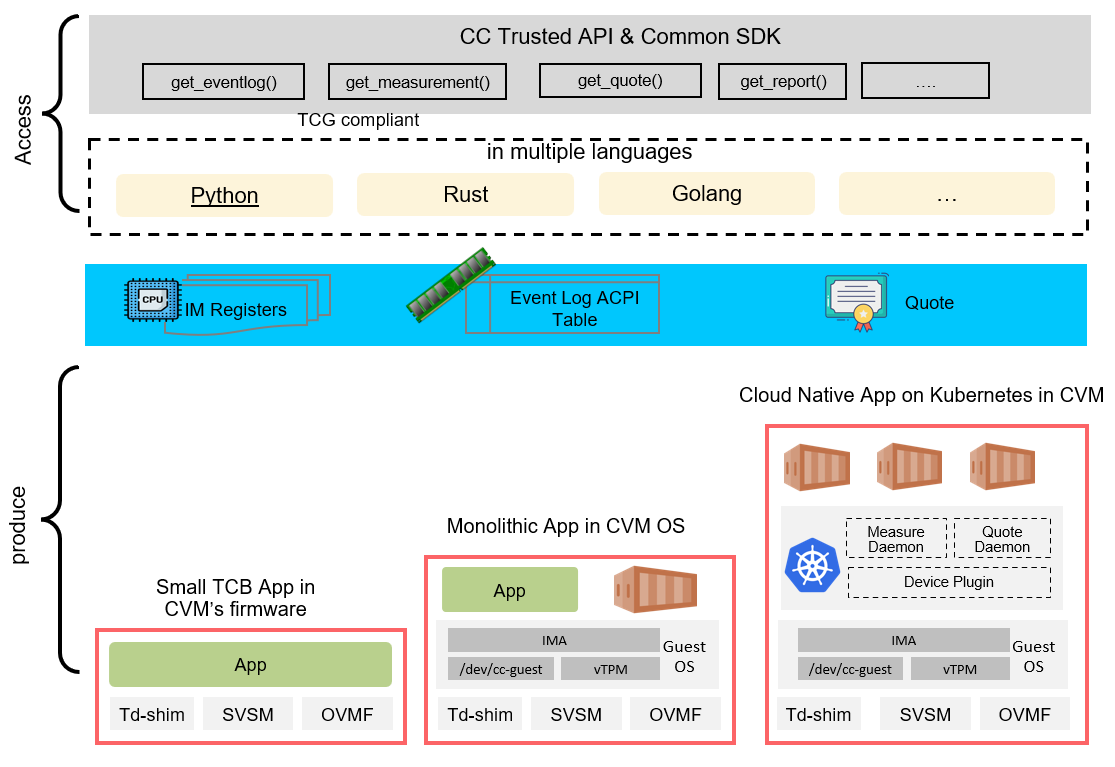
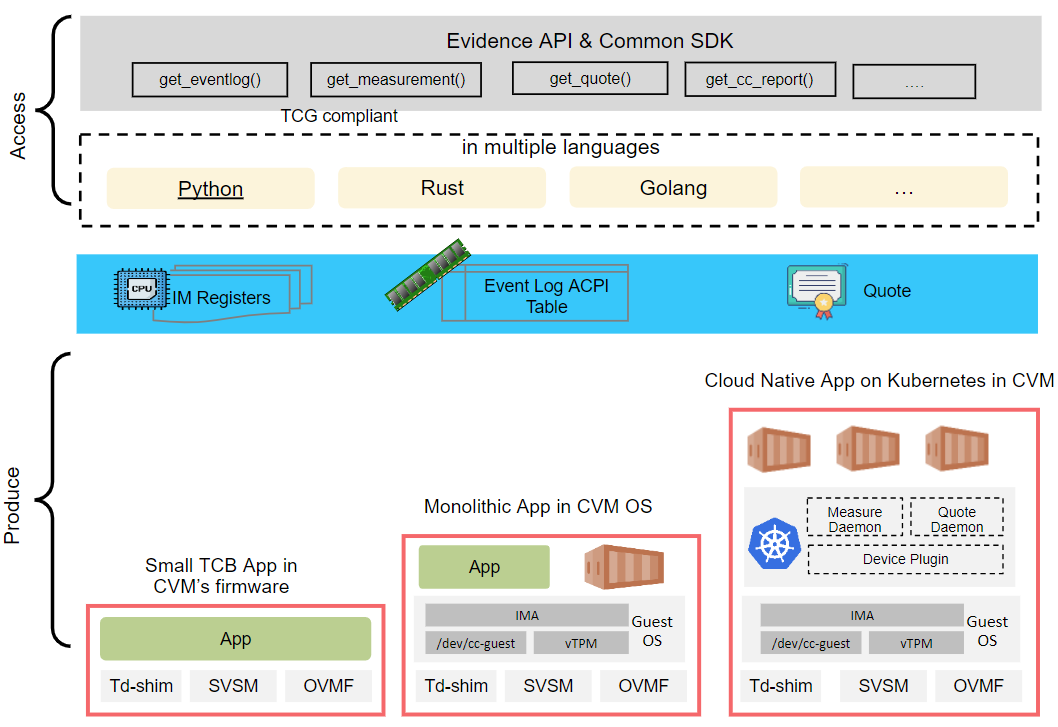
Update diagrams and README to reflect new component name (#142)

Changed region(s): [[0.0, 0.0, 0.9981, 0.9986], [0.9669, 0.0303, 0.9981, 0.1513]]

diff --git a/README.md b/README.md
@@ -7,44 +7,14 @@
 
 Evidence API helps the diverse applications to access and process the trust states
 which was represented by integrity measurement, event record, report/quote in the confidential
-computing environment.
+computing environment. Find more details in the [wiki](https://github.com/cc-api/evidence-api/wiki).
 
 ![](docs/evidence-api-overview.png)
 
-## 1. TCB Measurement
 
-The diverse application in confidential computing could be firmware or monolithic application
-in Confidential VM(CVM), micro service or macro service on Kubernetes. Although
-different type application might get the trust states measured in different Trusted
-Computing Base (TCB), the definition and structure of integrity measurement register and
-event log follows the below specifications.
+## APIs
 
-![](docs/evidence-api-usage.png)
-| TCB | Measured By | Specification |
-| --- | -------- | ------------- |
-| Initial TEE | Trusted Security Manager (TSM), such as Intel TDX module, SEV secure processor | Vendor Specification such as [Intel TDX Module 1.5 ABI Specification](https://cdrdv2.intel.com/v1/dl/getContent/733579) |
-| Firmware | EFI_CC_MEASUREMENT_PROTOCOL </br> CCEL ACPI Table </br> EFI_TCG2_PROTOCOL </br> TCG ACPI Table | [UEFI Specification 2.10](https://uefi.org/specs/UEFI/2.10/38_Confidential_Computing.html#virtual-platform-cc-event-log) </br> [ACPI Specification 6.5](https://uefi.org/specs/ACPI/6.5/05_ACPI_Software_Programming_Model.html#cc-event-log-acpi-table) </br> [TCG EFI Protocol Specification](https://trustedcomputinggroup.org/resource/tcg-efi-protocol-specification/) </br> [TCG ACPI Specification](https://trustedcomputinggroup.org/resource/tcg-acpi-specification/) |
-| Boot Loader | EFI_CC_MEASUREMENT_PROTOCOL </br> EFI_TCG2_PROTOCOL | Grub2/Shim |
-| OS | Integrity Measurement Architecture (IMA) | [Specification](https://sourceforge.net/p/linux-ima/wiki/Home/) |
-| Cloud Native | Container Integrity Measurement Agent (CIMA) | [Repository](https://github.com/cc-api/container-integrity-measurement-agent) |
-
-## 2. Trusted Foundation
-
-Normally Trusted Platform Module(TPM) provides root of trust for PC client platform.
-In confidential computing environment, vTPM (virtual TPM) might be provided different
-vendor or CSP, which root of trust should be hardened by vendor secure module. Some
-vendor also provided simplified solution:
-
-|           | Measurement Register | Event Log      | Specification |
-| --------- | -------------------- | ---------      | ------------- |
-| vTPM      | TPM PCR              | TCG2 Event Log | [TPM2 Specification](https://trustedcomputinggroup.org/resource/tpm-library-specification/) </br> [TCG PC Client Platform TPM Profile Specification](https://trustedcomputinggroup.org/resource/pc-client-platform-tpm-profile-ptp-specification/) </br> [TCG PC Client Platform Firmware Profile Specification](https://trustedcomputinggroup.org/resource/pc-client-specific-platform-firmware-profile-specification/) |
-| Intel TDX | TDX MRTD/RTMR        | CC Event Log   | [Intel® TDX Module 1.5 Base Architecture Specification](https://cdrdv2.intel.com/v1/dl/getContent/733575) </br> [Intel® TDX Virtual Firmware Design Guide](https://cdrdv2.intel.com/v1/dl/getContent/733585) </br> [td-shim specification](https://github.com/confidential-containers/td-shim/blob/main/doc/tdshim_spec.md) |
-
-![](docs/cc-trusted-foundation.png)
-
-## 3. APIs
-
-Evidence APIs aims to collect confidential primitives (i.e., measurement, event log, quote) for zero-trust design, supporting multiple deployment environments (firmware/VM/cloud native cluster).
+Evidence APIs aims to collect confidential evidence (i.e., measurement, event log, quote) for zero-trust design, supporting multiple deployment environments (firmware/VM/cloud native cluster).
 The [APIs](common/python/evidence_api/api.py) are designed to be vendor agnostic and TCG compliant APIs. The APIs will keep evolving on demand. 
 
 | API | Description  | Parameters  | Response  |
@@ -56,7 +26,7 @@ The [APIs](common/python/evidence_api/api.py) are designed to be vendor agnostic
 | get_cc_eventlog | Get eventlog for given index and count. | start: the index of the event log to start fetching<br> count: the number of event logs to fetch | A `TcgEventLog` object |
 | replay_cc_eventlog | Replay event logs fetched through `get_cc_eventlog` api. | event_logs: a list of event logs fetched using `get_cc_eventlog` api | A dict listing the replay result containing information including IMR index number, algorithm using and replayed measurement |
 
-## 4. SDKs
+## SDKs
 
 It provides different SDKs for producing the confidential primitives in different deployment environments.
 Choose correct SDK according to your environment. Installation guide can be found at the readme of each implementation.
@@ -67,11 +37,11 @@ Choose correct SDK according to your environment. Installation guide can be foun
 | [VM SDK](https://github.com/cc-api/cc-trusted-vmsdk) | Confidential Virtual Machine | [Guide](https://github.com/cc-api/cc-trusted-vmsdk/blob/main/README.md) |
 | [Container Integrity Measurement Agent (CIMA)](https://github.com/cc-api/container-integrity-measurement-agent) | Confidential Cluster/Container | [Guide](https://github.com/cc-api/confidential-cloud-native-primitives/blob/main/deployment/README.md) |
 
-## 5. How to use the APIs
+## How to use the APIs
 
 This section contains the brief samples of APIs. You can find more examples at [API usage example](docs/API-usage-example.md).
 
-### 5.1 Sample of `get_cc_measurement` API
+### An example of `get_cc_measurement` API
 
 Below example code collects measurements from all integrity registers of the platform using API `get_measurement_count`, `get_default_algorithms` and `get_cc_measurement` using `VMSDK` in python.
 
@@ -137,7 +107,7 @@ __main__ INFO     HASH: 00 00 00 00 00 00 00 00 00 00 00 00 00 00 00 00 00 00 00
 
 ```
 
-### 5.2 Sample of `get_cc_report` API
+### An example of `get_cc_report` API
 
 Below example code collect the CcReport (i.e. quote) on the platform using `get_cc_report` API using `VMSDK` implemented by python.
 
@@ -195,7 +165,7 @@ evidence_api.binaryblob INFO     000010D0  44 20 43 45 52 54 49 46 49 43 41 54 4
 evidence_api.binaryblob INFO     000010E0  2D 2D 0A 00                                      --..
 ```
 
-### 5.3 Sample of `get_cc_eventlog` API
+### An example of `get_cc_eventlog` API
 
 Below example code collects all boot time event logs on the platform using API `get_cc_eventlog` implemented in `VMSDK` in python. Sample Event logs collected within container using `CCNP` API can be found [here](https://github.com/cc-api/confidential-cloud-native-primitives/blob/main/docs/sample-output-for-node-measurement-tool-full.txt).
 
